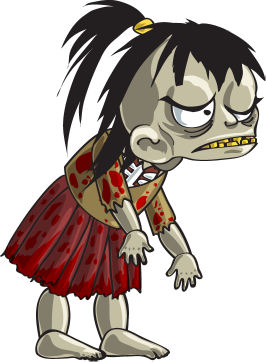
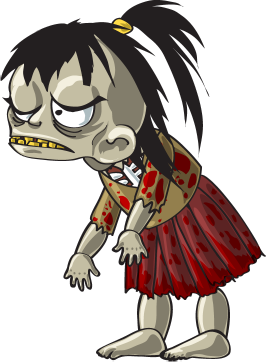
Aggiunto il campo "Name" al player... Selezione player funzionante per il player1

diff --git a/Brawhall/src/object/Player.java b/Brawhall/src/object/Player.java
@@ -14,6 +14,8 @@ import object.BoundingBox.Side;
 
 public class Player extends DynamicGameObject implements Collides, CanFight, CanJump, Drawable, GravityDependent, CanMove,CanCrouch{
 
+	String Name;
+	
 	float damage=0.0f;
 	float baseAttack=1.0f;
 	float standHeight;
@@ -37,12 +39,14 @@ public class Player extends DynamicGameObject implements Collides, CanFight, Can
 		this.height = 20;
 		this.width = 10;
 		standHeight=20;
+		Name = "";
 	}
 	public Player(float x,float y, float Width,float Height) 
 	{
 		super(x, y, Width, Height, ObjectId.PLAYER);
 		this.height = Height;
 		this.width = Width;
+		String Name = "";
 	}
 	public void tick(LinkedList<GameObject> objects, double delta) {
 		move(delta);
@@ -329,4 +333,7 @@ public class Player extends DynamicGameObject implements Collides, CanFight, Can
 	public boolean isCrouching() {
 		return crouching;
 	}
+	
+	public void setName(String Name) {this.Name = Name;}
+	public String getName() {return this.Name;}
 }

diff --git a/Brawhall/src/gameManager/GameManager.java b/Brawhall/src/gameManager/GameManager.java
@@ -85,6 +85,7 @@ public class GameManager extends Thread implements Runnable{
 		GameObject bg = new Background(w.getWidth(), w.getHeight());
 		w.addObject(o);
 		w.setPlayer((Player)o);
+		w.getPlayer().setName(DefaultMenu.Player1Preview.getSelectedPlayer());
 		cam=new Camera(w,o);
 		renderers.add(new ObjectRenderer(bg, this));
 		renderers.add(new PlayerRenderer((Player)o,this));	
@@ -164,8 +165,10 @@ public class GameManager extends Thread implements Runnable{
 				{
 					if(DefaultMenu.getPlayerSelectionTurn() == 1 || DefaultMenu.getPlayerSelectionTurn() == 2)
 						DefaultMenu.nextPlayerSelectionTurn();
-					else 
+					else
+					{
 						performAction(Action.START_GAME);
+					}
 				}
 				
 				if(ev.keys[KeyEvent.VK_RIGHT])

diff --git a/Brawhall/src/object/PlayerRenderer.java b/Brawhall/src/object/PlayerRenderer.java
@@ -19,8 +19,8 @@ public class PlayerRenderer extends ObjectRenderer{
 		
 		if(!test) 
 		{
-			System.out.println(p.getState());
-			g.drawImage(gm.getMedia().getImage(ObjectId.CHARACTER, p.getState(), "Zombie", gm.getMedia().nextCharacterFrames(p.getState(), "Zombie")),gm.ConvertPosX(obj.posX), gm.ConvertPosY(obj.posY), gm.ConvertX(obj.width), gm.ConvertY(obj.height), null);
+			System.out.println(p.getName());
+			g.drawImage(gm.getMedia().getImage(ObjectId.CHARACTER, p.getState(), p.getName(), gm.getMedia().nextCharacterFrames(p.getState(), p.getName())),gm.ConvertPosX(obj.posX), gm.ConvertPosY(obj.posY), gm.ConvertX(obj.width), gm.ConvertY(obj.height), null);
 			 
 		}
 		else {
